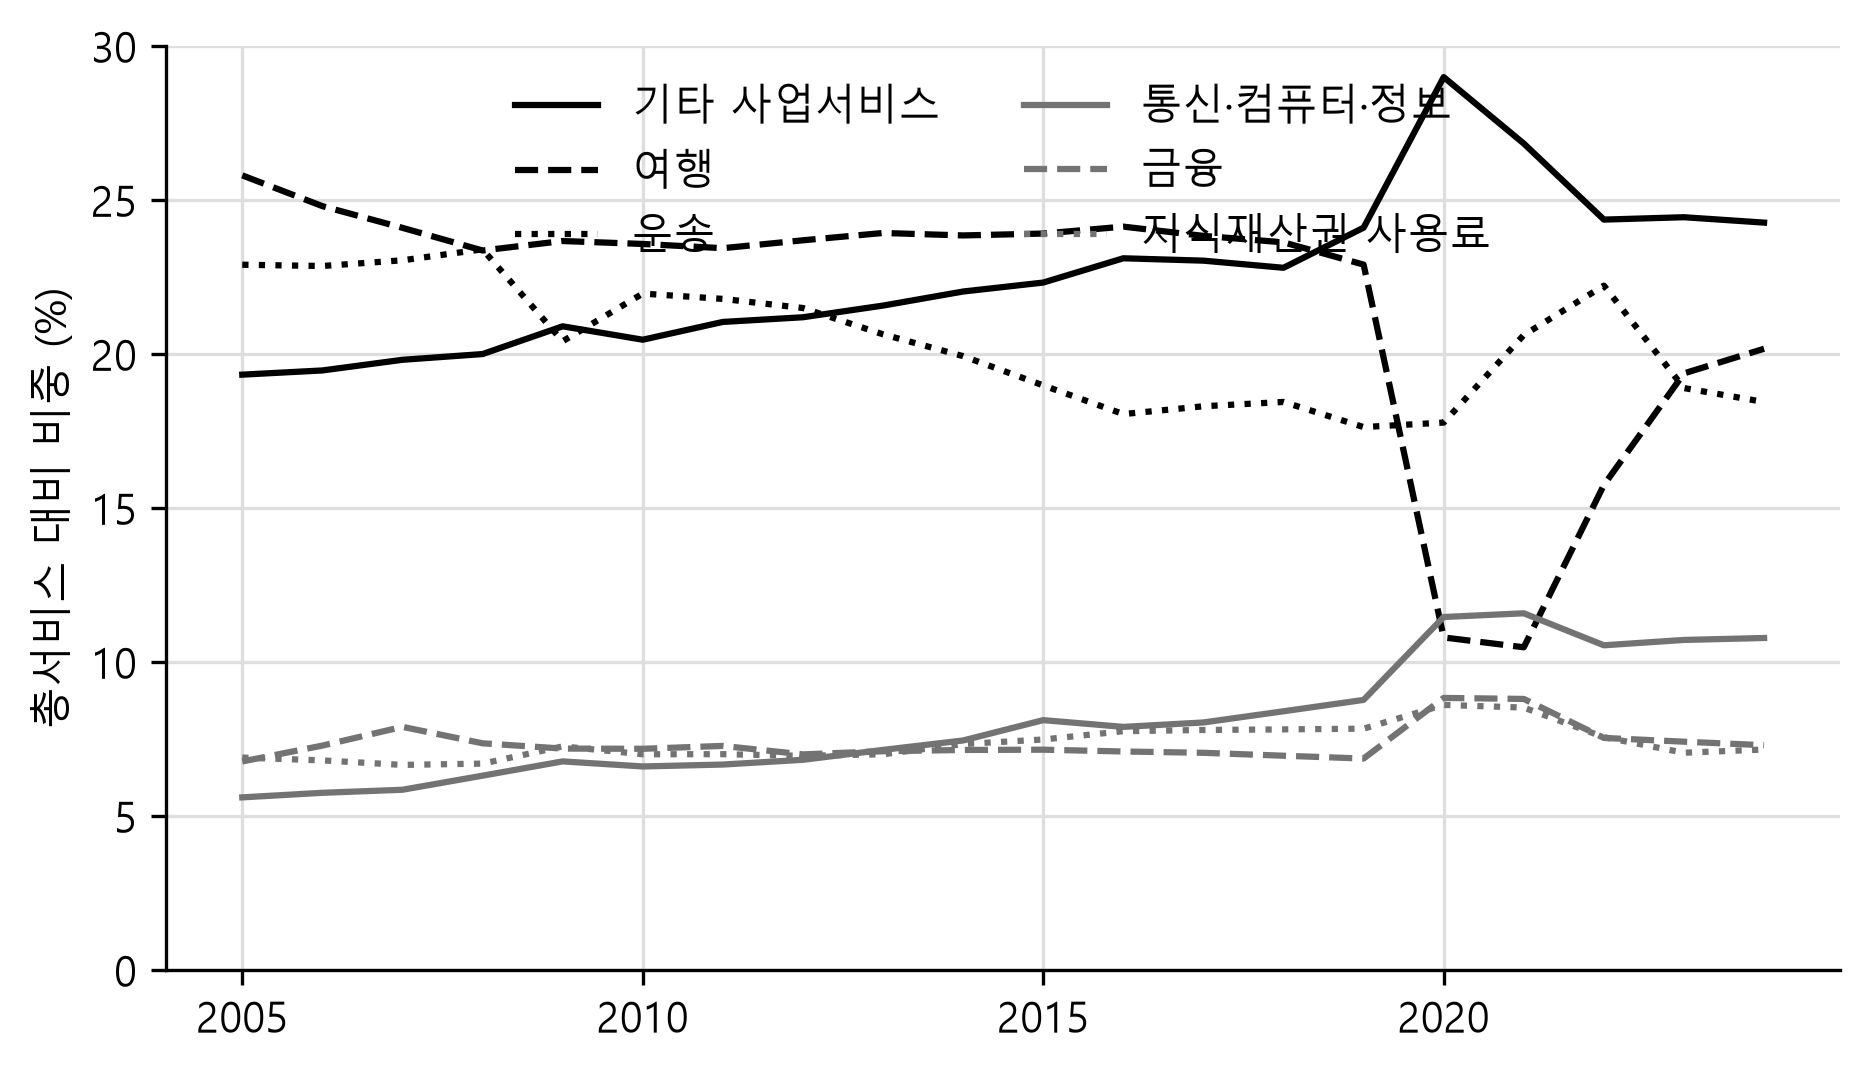
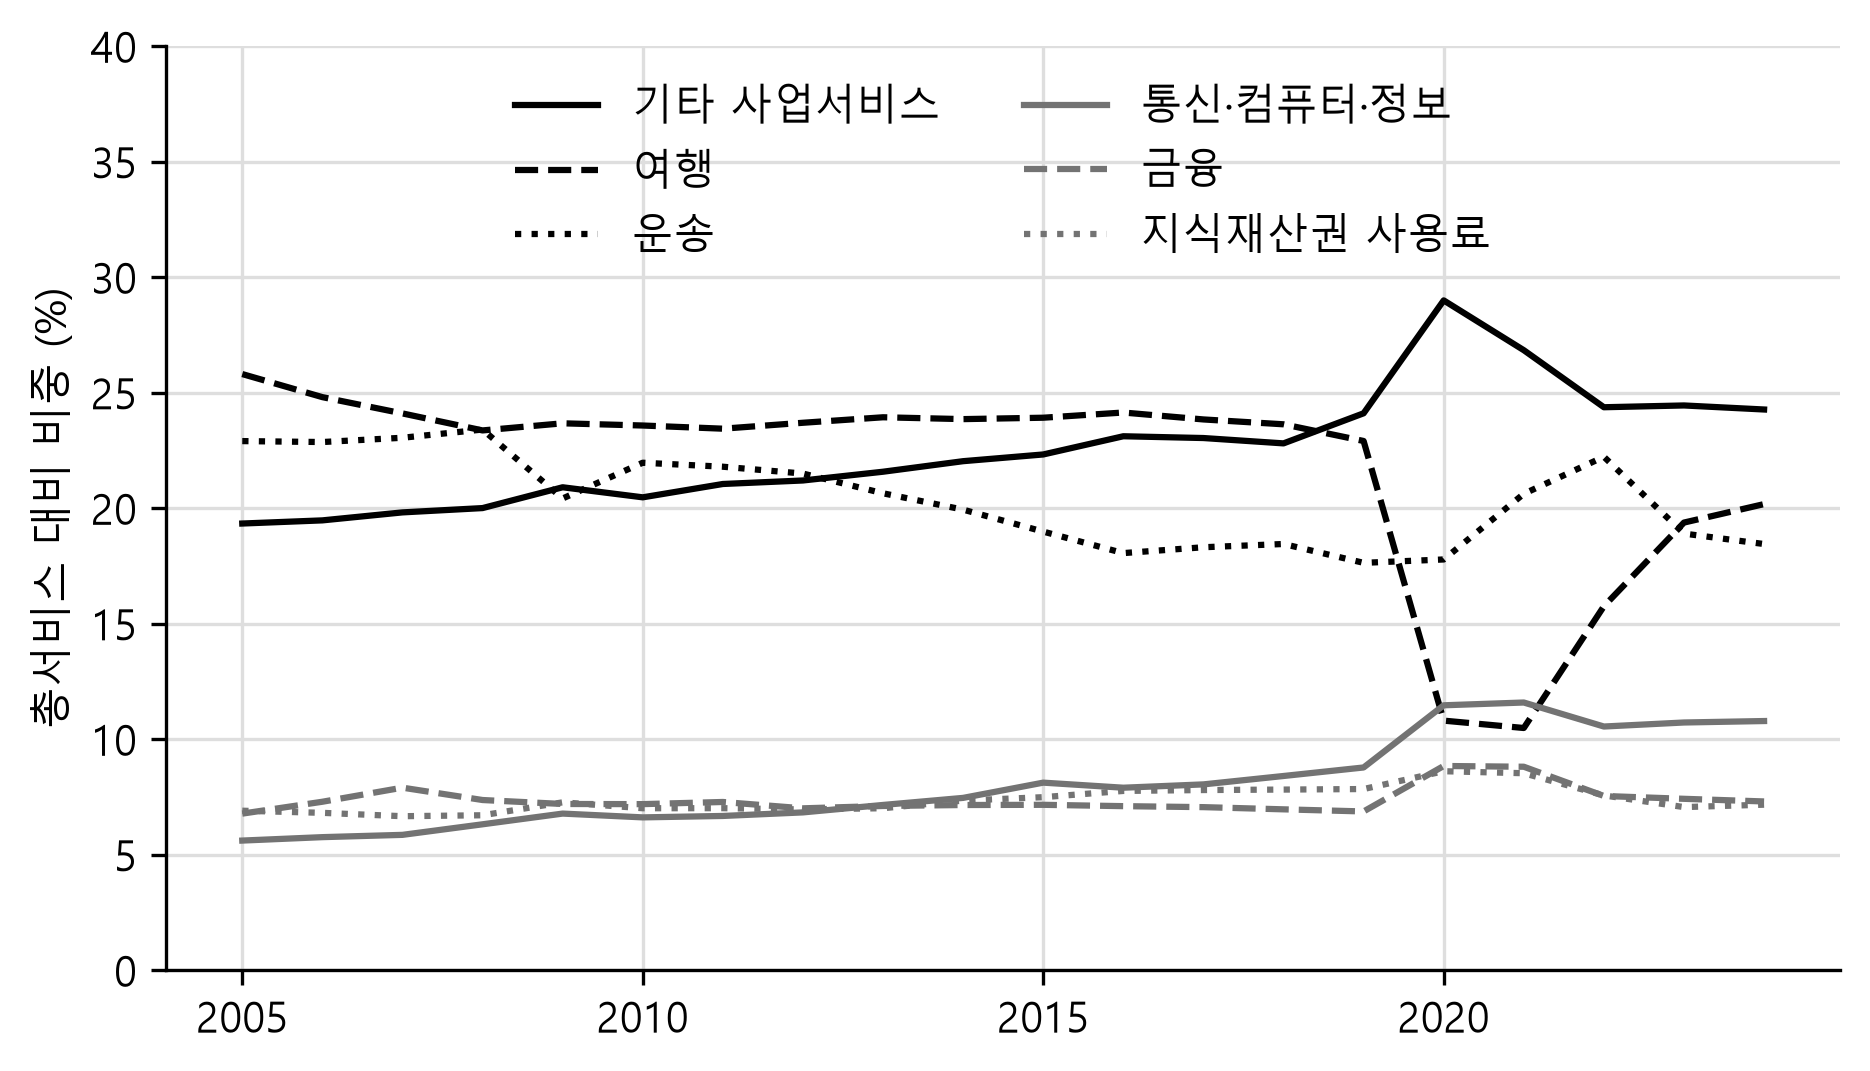
연구 1 그림 2의 세로축 상한을 40으로 올려 범례와 선의 겹침을 없앤다
상한이 30이면 위쪽 가운데 범례가 2005~2010년 여행·운송 선과 2020년 기타 사업서비스
정점(29.0%)에 걸렸다. 40으로 올려 범례 아래로 선이 지나가게 했다. 수치 변화 없음.

diff --git a/research/1.서비스교역_자료와_기술적_개관/analysis.py b/research/1.서비스교역_자료와_기술적_개관/analysis.py
@@ -122,7 +122,7 @@ for (code, label), (ls, c) in zip(NAMES.items(), styles):
     ax.plot(piv.index, piv[code], ls=ls, color=c, lw=1.5, label=label)
 ax.set_ylabel("총서비스 대비 비중 (%)")
 ax.legend(ncol=2, loc="upper center")
-ax.set_ylim(0, 30)
+ax.set_ylim(0, 40)  # 범례가 선과 겹치지 않도록 위쪽 여유를 둔다
 year_axis(ax)
 fig.savefig(IMG / "fig2_items.png")
 plt.close(fig)
